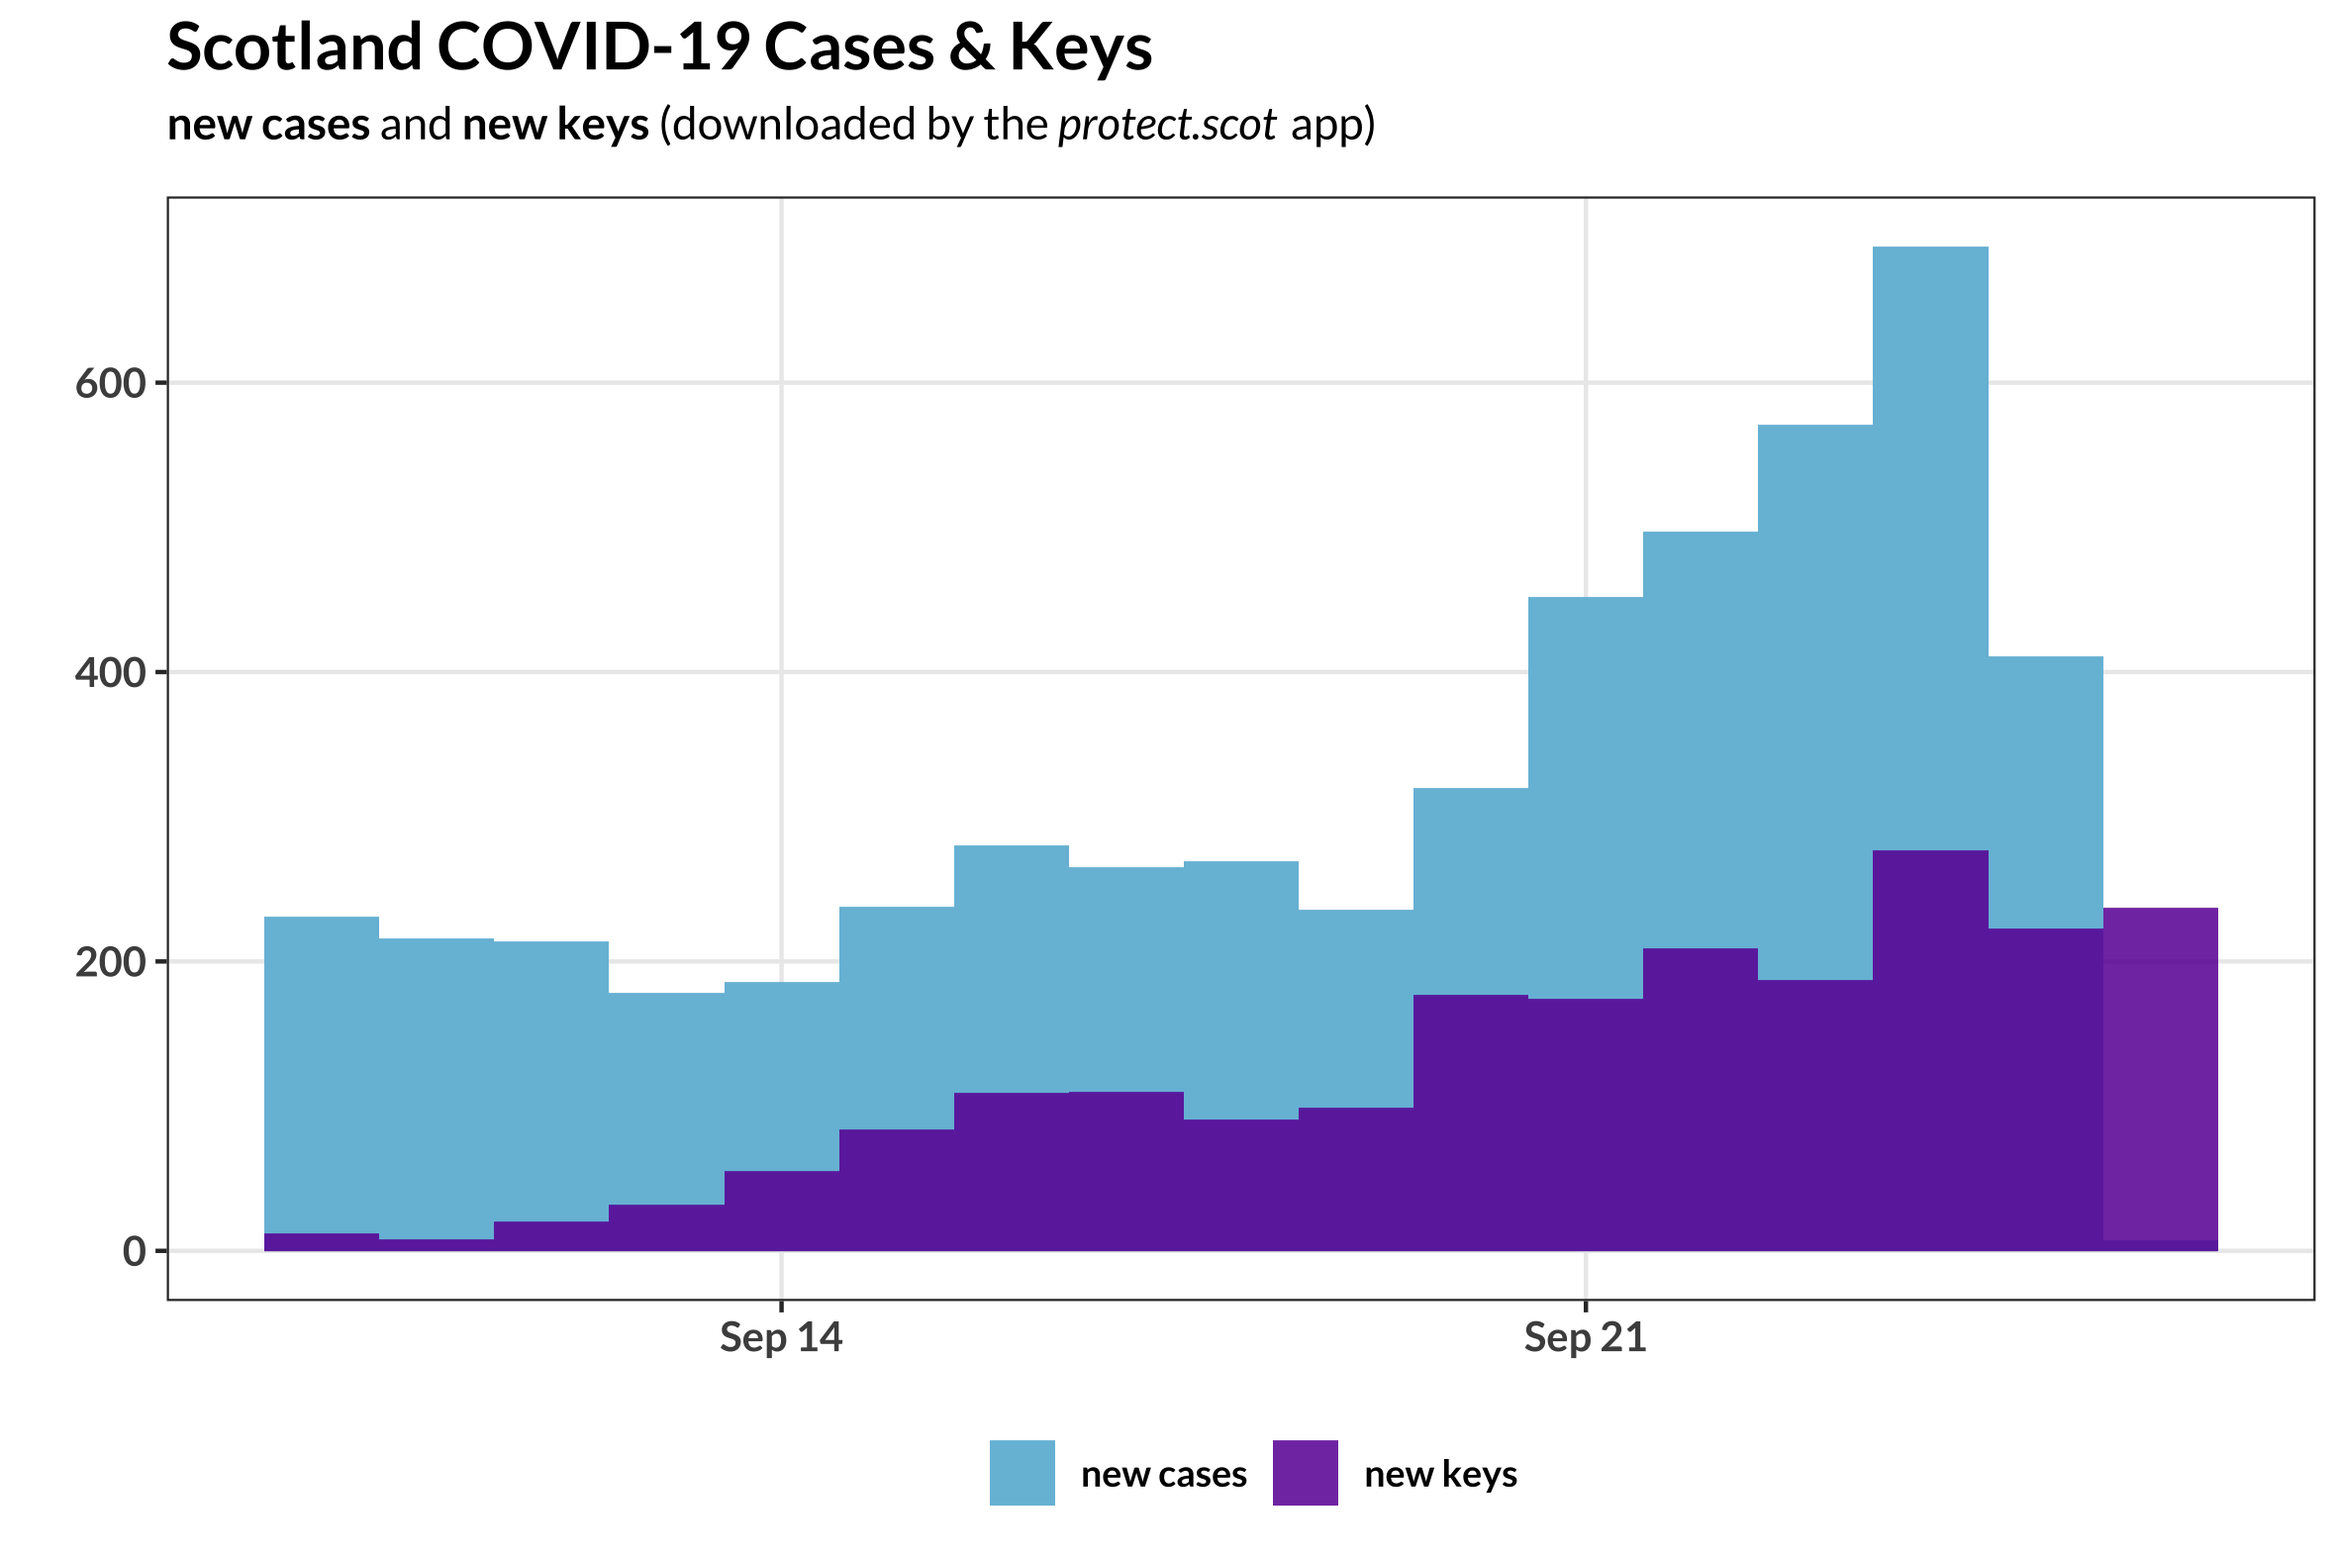
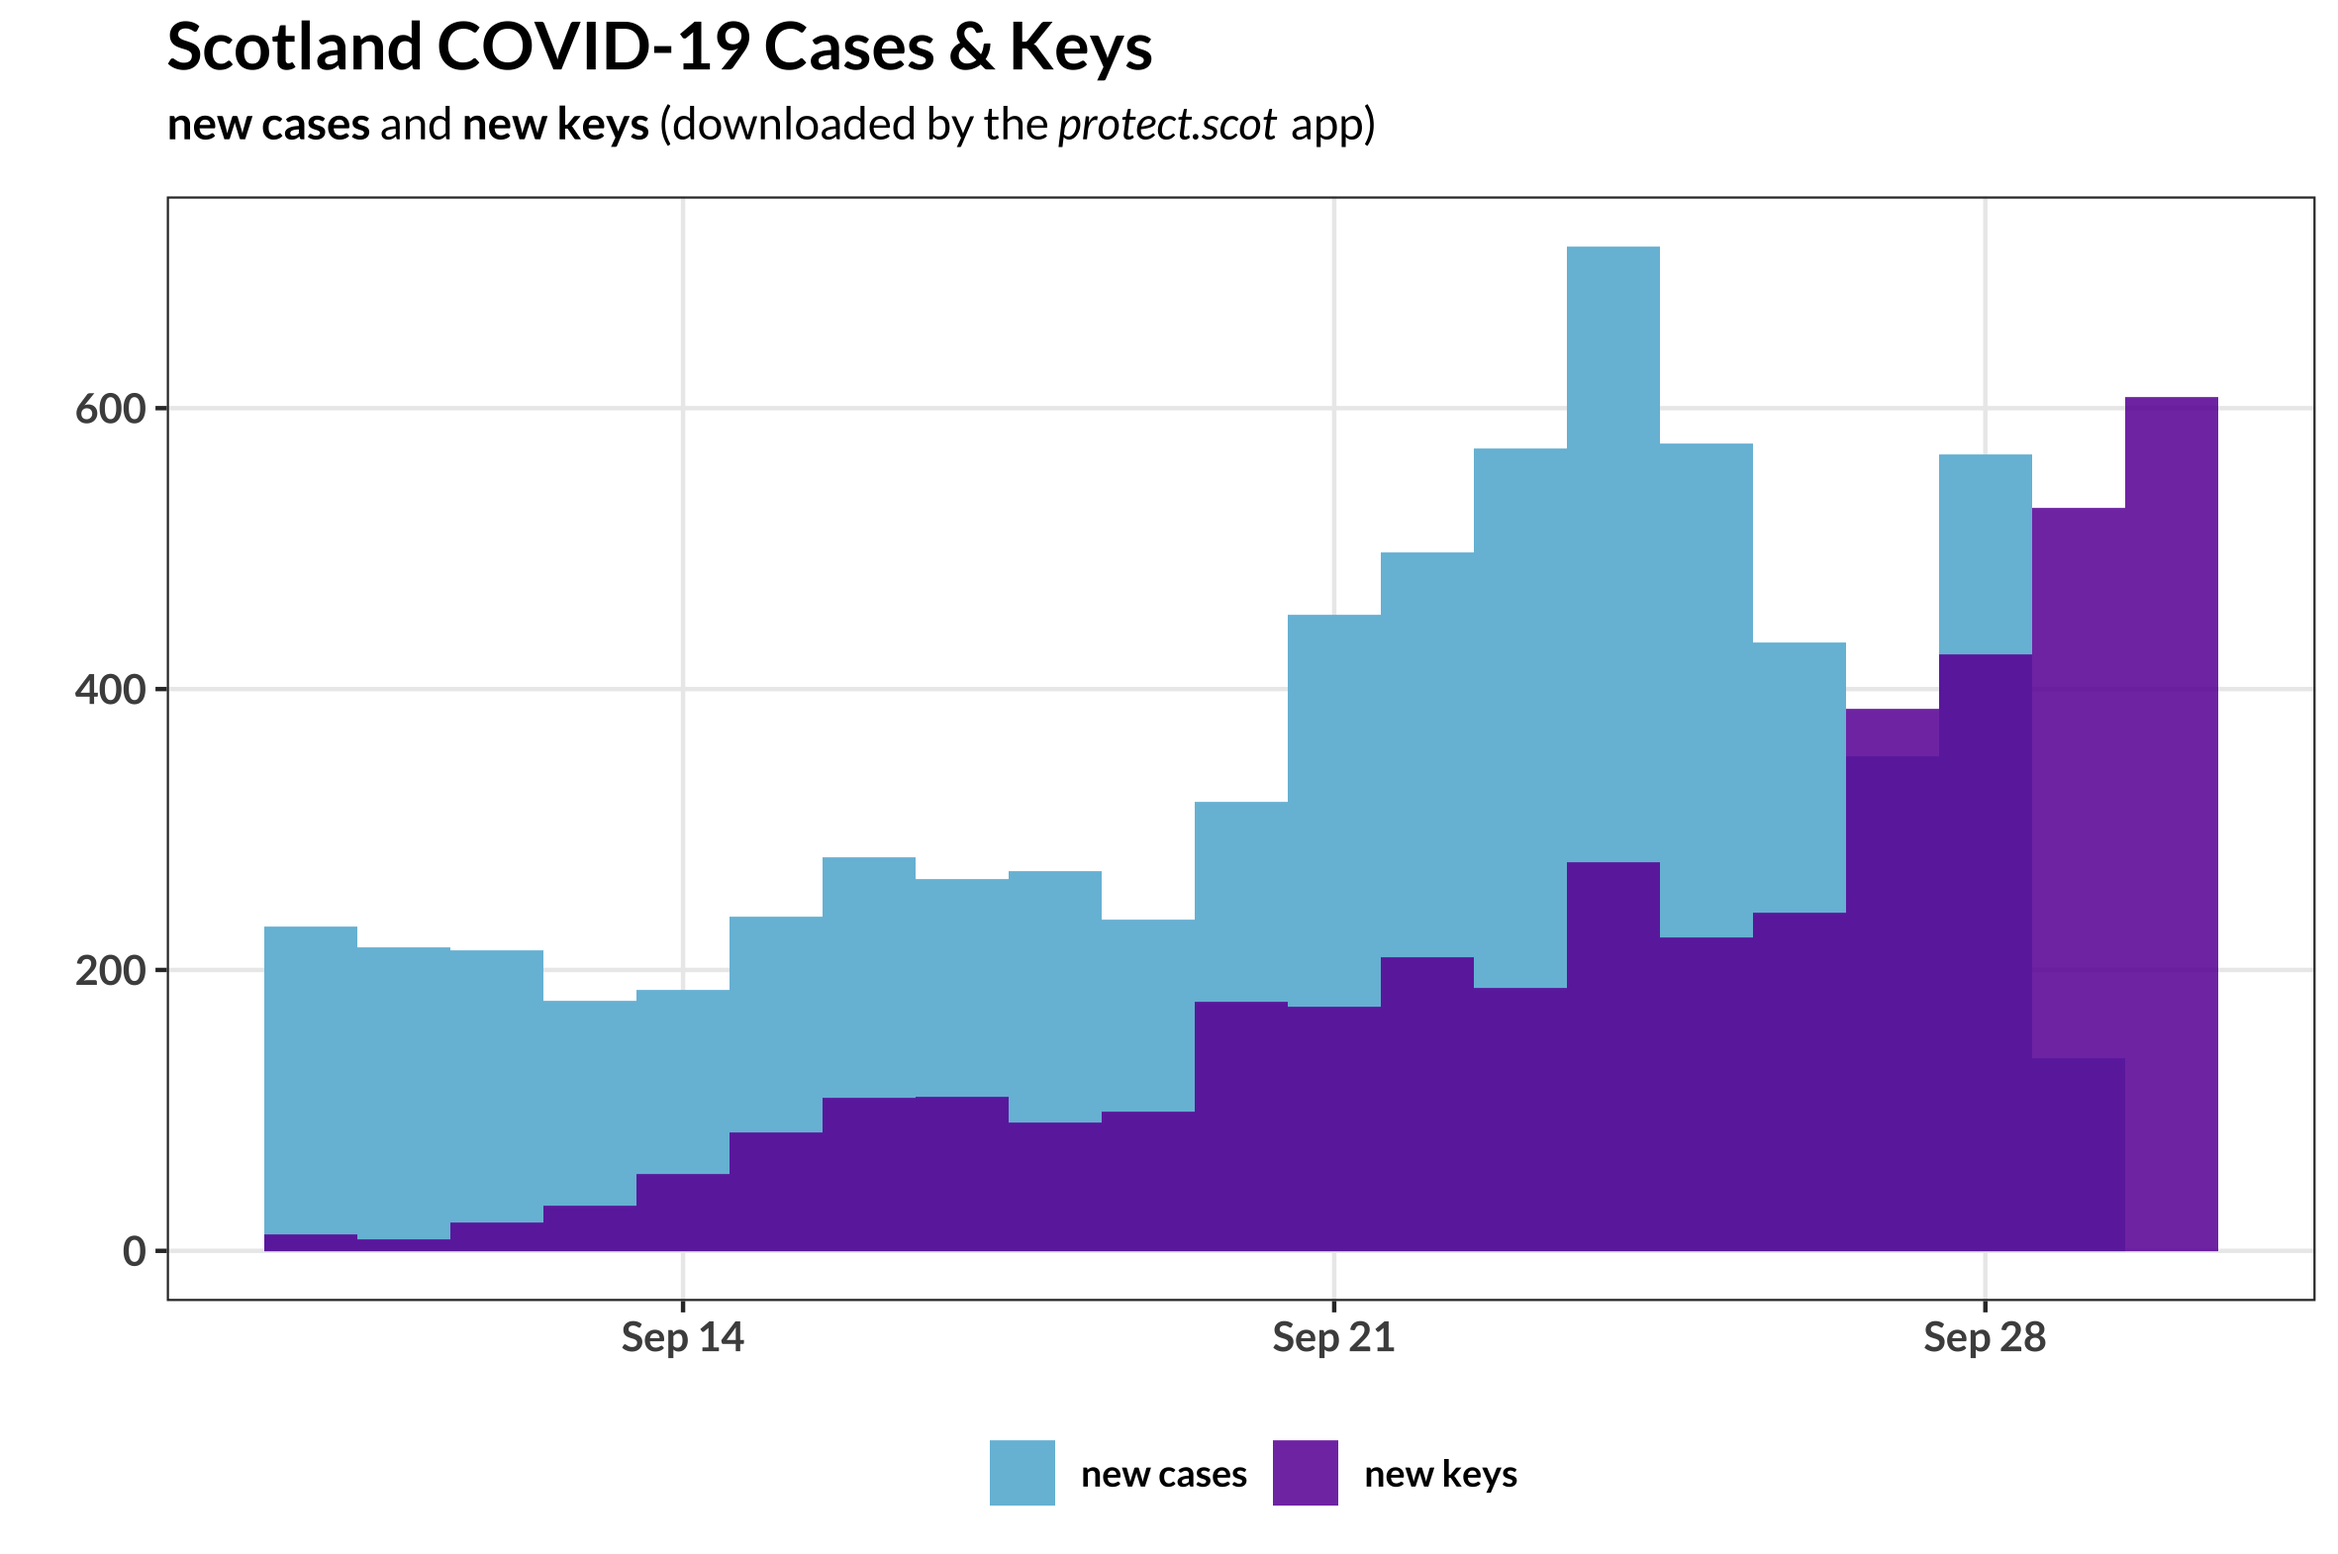
data update, added phone comparison, split off data import into sep func

diff --git a/README.md b/README.md
@@ -34,12 +34,23 @@ Here we can see the daily number of downloaded keys compared to the daily COVID-
 ![](/pics/plot_cases_keys.png)
 
 ## Cumulative Cases / Keys Since September 17th
-To compare the cumulative number of new cases to the cumulative number of new keys, we'll start from September 17th. This was the date the app reached one million downloads, which seems like as good a milestone as any. We can see that about 40% of the new cases have been registered via the app since then.
+To compare the cumulative number of new cases to the cumulative number of new keys, we'll start from September 17th. This was the date the app reached one million downloads, which seems like as good a milestone as any. We can see that about 50% of the new cases have been registered via the app since then.
 
 ![](/pics/plot_cum_cases_keys_sep17.png)
+
+## Comparisons Between Phones
+As phones should all be downloading the same set/s of diagnosis keys, the information in two phones' exposure notification files should be essentially identical in terms of total keys downloaded, and differ only in terms of polling frequency and number of keys downloaded each time.
+
+Here we can see numbers of keys downloaded over time for two separate phones (whose exposure notification files were exported within a few minutes of each other). One phone polls frequently and downloads (relatively) fewer keys each time, whereas the other phone polls infrequently and downloads more keys at once.
+
+![](/pics/plot_new_two_phones.png)
+
+Looking at this cumulatively exposes the issue -- the owner of *phone 2* spends days at a time without downloading new keys. At the time these data files were exported the owner of *phone 2* has less than half the number of keys downloaded (compared to *phone 1*), and would not be notified of an exposure match until they had downloaded the relevant key.
+
+![](/pics/plot_cum_two_phones.png)
 
 
 ## Conclusion
 
-Cautious optimism! It looks like a significant proportion of known cases are self-reporting via the app, which can only be a help to the general contact tracing efforts.
+Cautious optimism! It looks like a significant proportion of known cases are self-reporting via the app, which can only be a help to the general contact tracing efforts. The disparity in polling frequencies between devices may warrant further investigation!
 
